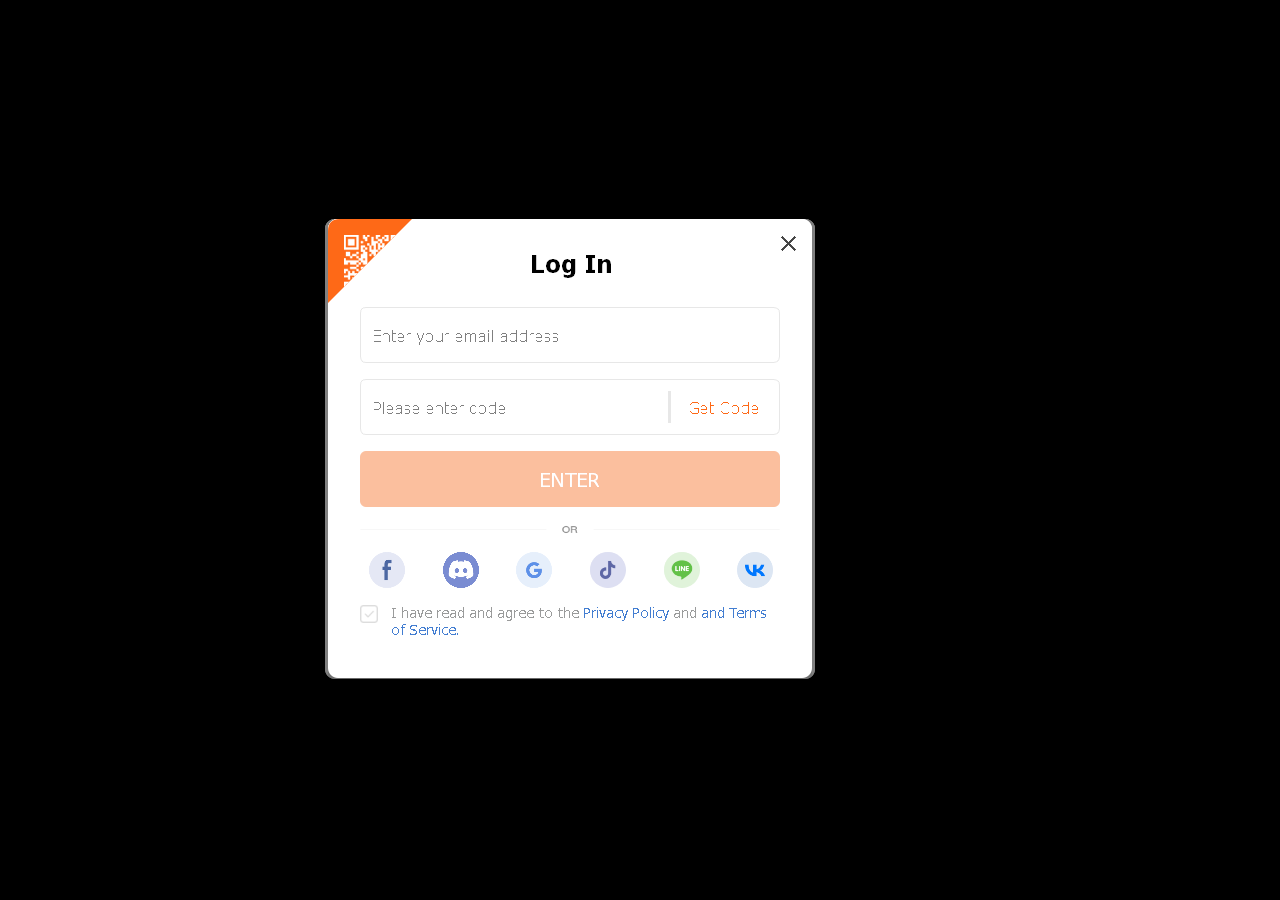
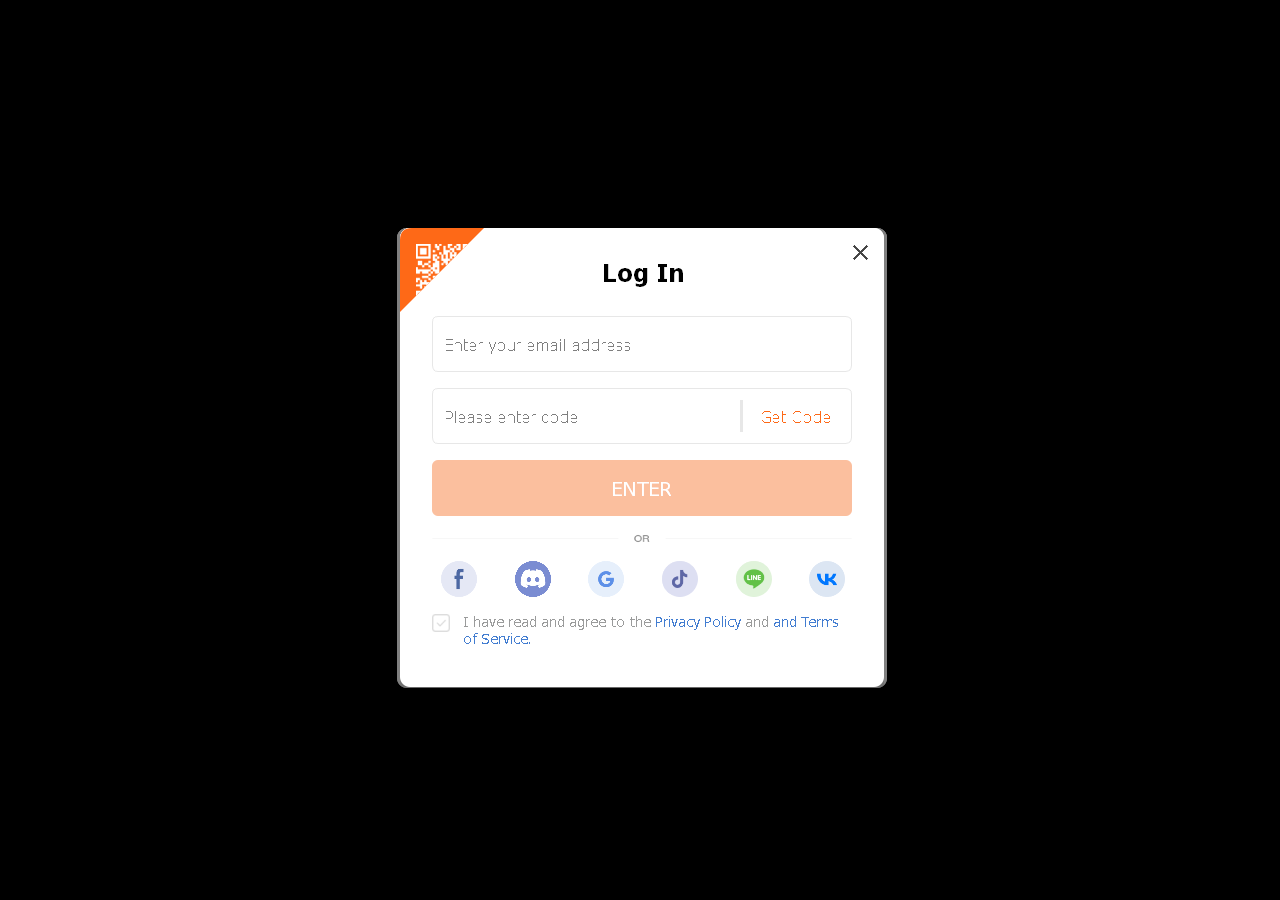
Shrink FPX login window and explain Log In.
Size the host to the FunPlus dialog (~484x459) so there is no empty border, and add an info button clarifying that login stays on FunPlus/Proton and never hits YACCGL servers.

Changed region(s): [[0.25, 0.2178, 0.7188, 0.7778], [0.4062, 0.3733, 0.4375, 0.4044], [0.3438, 0.4356, 0.375, 0.4667]]

diff --git a/crates/gui/src/window.rs b/crates/gui/src/window.rs
@@ -97,6 +97,7 @@ struct Ui {
     remove_button: gtk::Button,
     login_row: adw::ActionRow,
     login_button: gtk::Button,
+    login_info_button: gtk::Button,
     prefs: adw::PreferencesDialog,
 }
 
@@ -229,7 +230,14 @@ fn build_ui(application: &adw::Application) -> Ui {
         .title("Log in to Aniimo")
         .subtitle("Opens FunPlus login here so you can type your email")
         .build();
+    let login_info_button = gtk::Button::builder()
+        .icon_name("dialog-information-symbolic")
+        .valign(gtk::Align::Center)
+        .tooltip_text("About Log In")
+        .css_classes(["flat"])
+        .build();
     let login_button = gtk::Button::builder().label("Log In").valign(gtk::Align::Center).build();
+    login_row.add_suffix(&login_info_button);
     login_row.add_suffix(&login_button);
     let steam_group = adw::PreferencesGroup::builder().title("Steam").build();
     steam_group.add(&shortcut_row);
@@ -347,6 +355,7 @@ fn build_ui(application: &adw::Application) -> Ui {
         remove_button,
         login_row,
         login_button,
+        login_info_button,
         prefs,
     }
 }
@@ -382,6 +391,16 @@ impl App {
         ui.login_button.connect_clicked(move |_| {
             let a = a.clone();
             glib::spawn_future_local(async move { a.log_in().await });
+        });
+        let a = self.clone();
+        ui.login_info_button.connect_clicked(move |_| {
+            a.error(
+                "About Log In",
+                "Nothing is sent to YACCGL or any of our servers.\n\n\
+                 This opens Aniimo's official FunPlus login (FPX.dll from your game files) under Wine/Proton.\n\n\
+                 Use it in Desktop Mode so you can type your email. The session is saved in Steam's Proton \
+                 prefix, so Game Mode launches stay logged in.",
+            );
         });
         let a = self.clone();
         ui.remove_button.connect_clicked(move |_| {

diff --git a/tools/fpx-login/host.c b/tools/fpx-login/host.c
@@ -139,11 +139,21 @@ int WINAPI WinMain(HINSTANCE hi, HINSTANCE hp, LPSTR cmd, int show) {
     wc.hbrBackground = (HBRUSH)GetStockObject(BLACK_BRUSH);
     RegisterClassA(&wc);
 
+    // FunPlus's login card is ~484×459; keep the host tight so there's no black border.
+    const int client_w = 484, client_h = 459;
+    DWORD style = WS_OVERLAPPED | WS_CAPTION | WS_SYSMENU | WS_MINIMIZEBOX | WS_VISIBLE;
+    RECT wr = {0, 0, client_w, client_h};
+    AdjustWindowRect(&wr, style, FALSE);
+    int ww = wr.right - wr.left, wh = wr.bottom - wr.top;
+    int wx = (GetSystemMetrics(SM_CXSCREEN) - ww) / 2;
+    int wy = (GetSystemMetrics(SM_CYSCREEN) - wh) / 2;
+    if (wx < 0) wx = 0;
+    if (wy < 0) wy = 0;
     g_host = CreateWindowExA(0, "AniimoFpxHost", "Aniimo Login",
-        WS_OVERLAPPEDWINDOW | WS_VISIBLE, 80, 60, 980, 760, NULL, NULL, hi, NULL);
+        style, wx, wy, ww, wh, NULL, NULL, hi, NULL);
     ShowWindow(g_host, SW_SHOW);
     UpdateWindow(g_host);
-    LOG("host hwnd=%p\n", (void*)g_host);
+    LOG("host hwnd=%p size=%dx%d (client %dx%d)\n", (void*)g_host, ww, wh, client_w, client_h);
 
     char* cfg = load_config();
     if (!cfg) {
